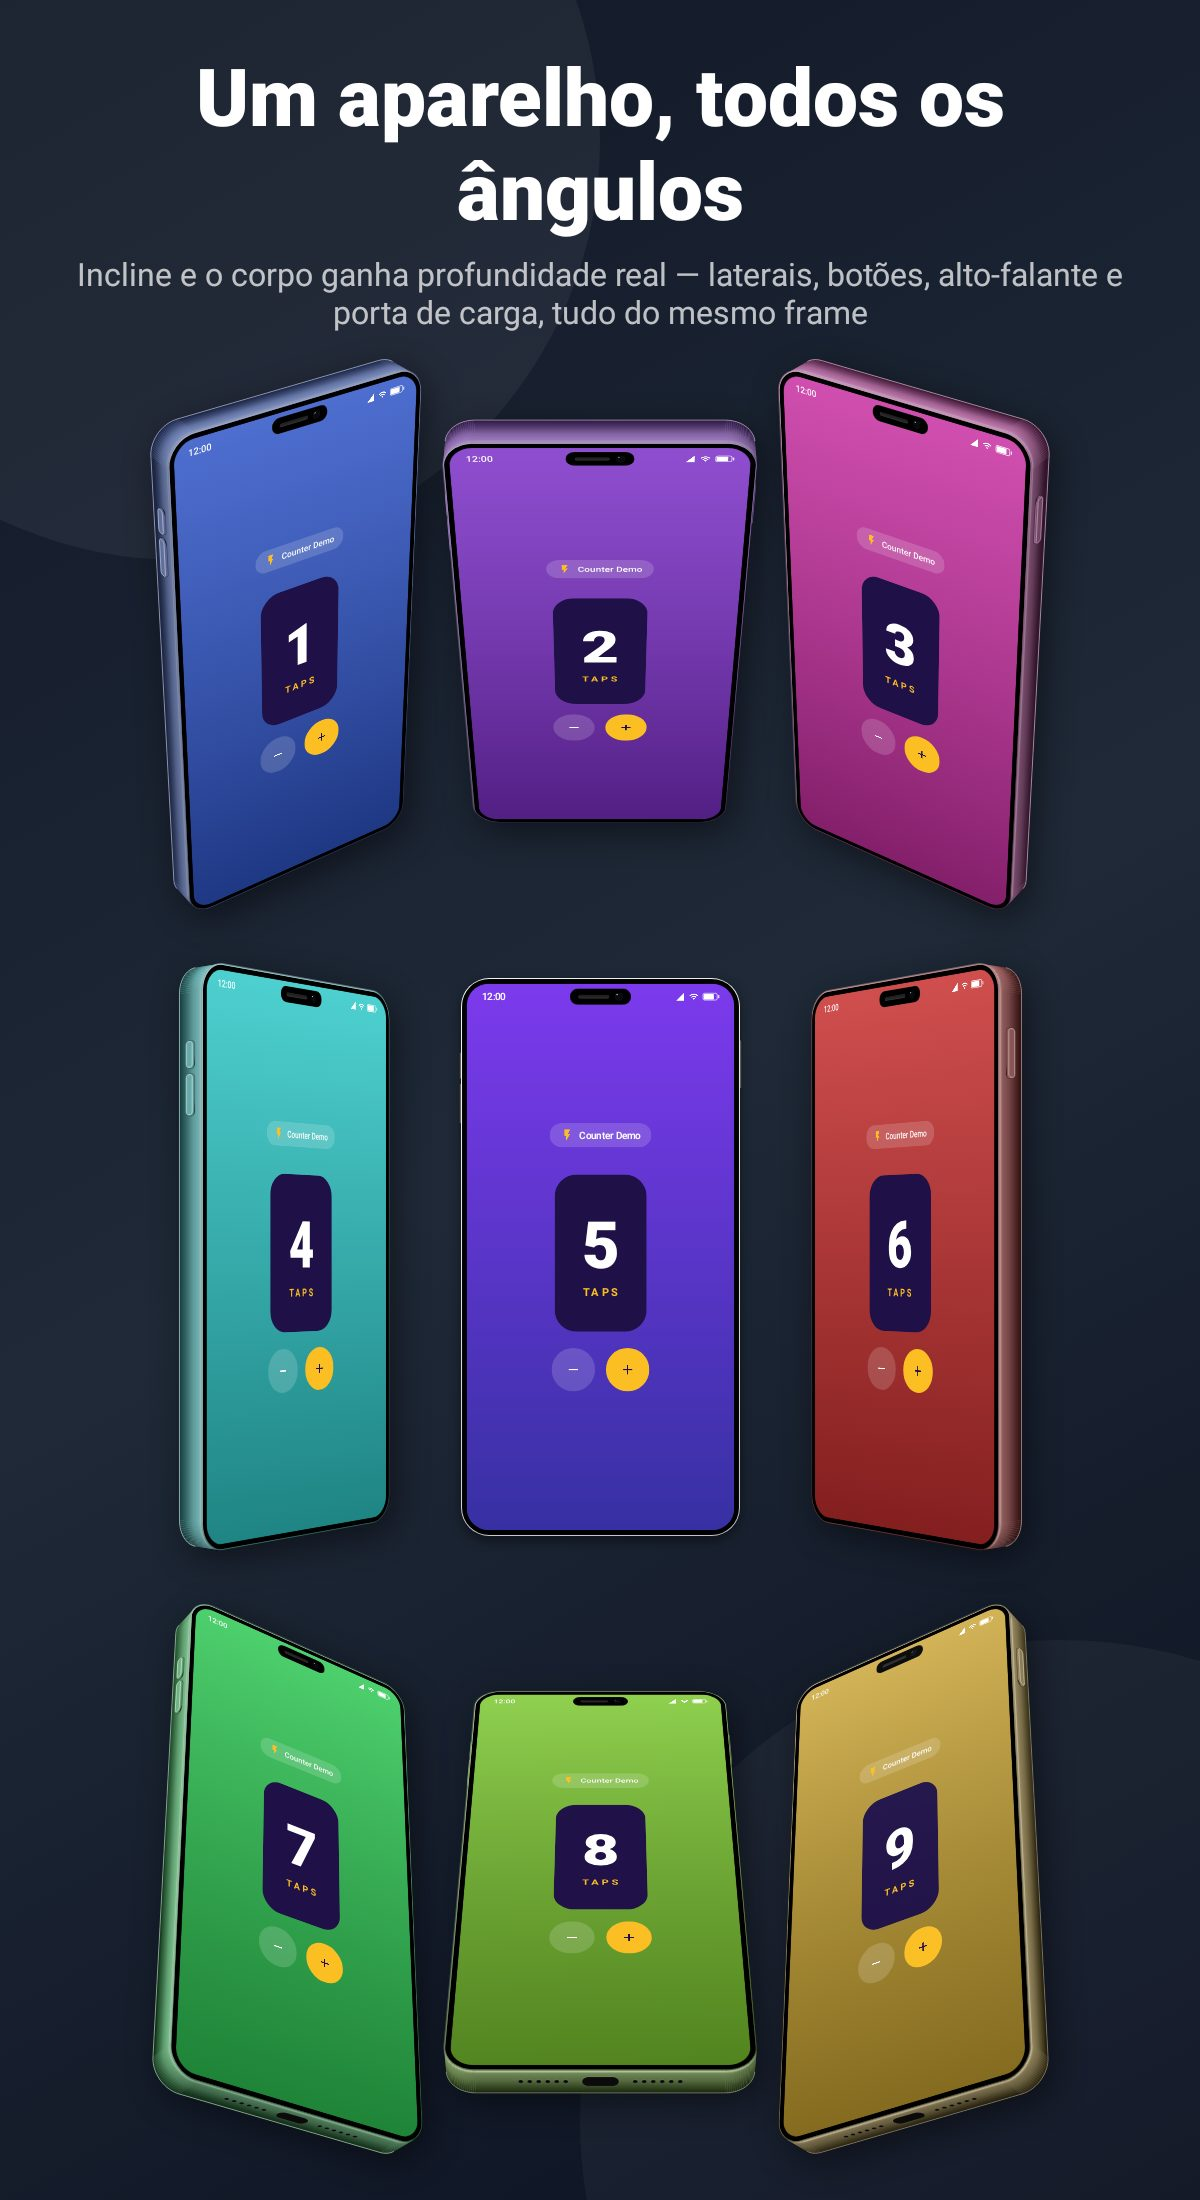
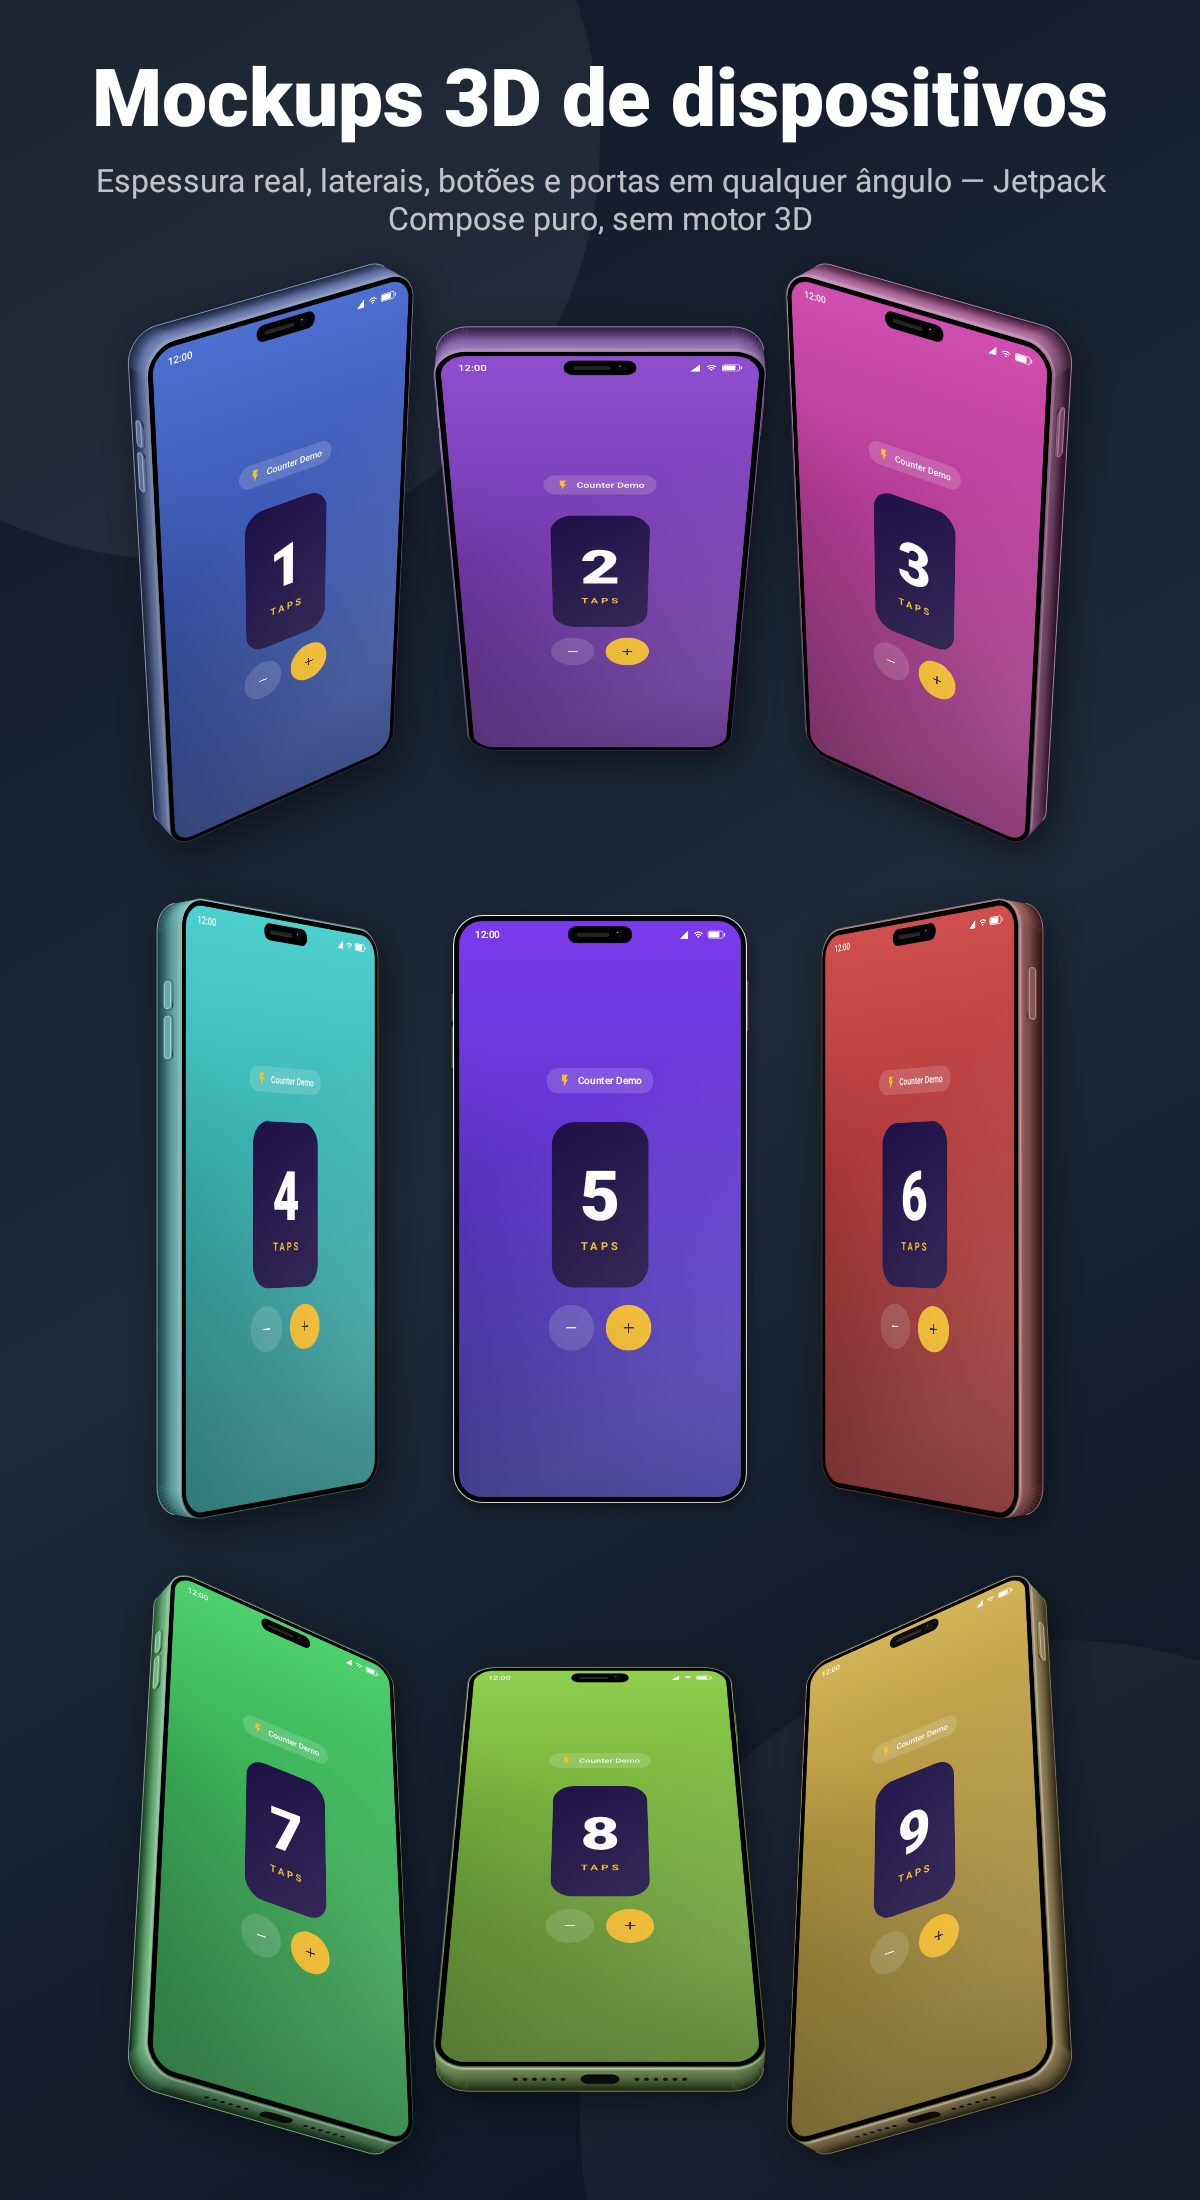
Name the showcase what it is, and put a reflection on its glass
The headline said "One device, every angle", which describes the grid rather
than the feature the grid exists to show. It is now "3D Device Mockups", and
the description says pure Jetpack Compose — the constraint is most of what
makes the thing interesting, and leaving it to the README meant the one
image likely to be seen on its own never mentioned it.

The nine screens now catch a reflection. One effect shared by all of them at
a fixed angle, because they should read as nine devices in the same room
rather than nine each lit by their own sun. It is drawn inside the content,
so it is warped onto the front face along with the screen and leans with
each device — which is the reason it is worth having here rather than being
painted flat over the banner afterwards. It is ScreenshotStyle.screenGlass's
reflex, a separate layer from the renderer's own glassSheen, and both are in
play.

Changed region(s): [[0.0617, 0.0309, 0.925, 0.9891], [0.37, 0.4018, 0.6475, 0.7109]]

diff --git a/example/src/main/kotlin/dev/lucianosantos/storescreenshots/example/SolidShowcaseBanner.kt b/example/src/main/kotlin/dev/lucianosantos/storescreenshots/example/SolidShowcaseBanner.kt
@@ -27,7 +27,12 @@ import androidx.compose.ui.unit.sp
 import kotlin.math.atan2
 import dev.lucianosantos.storescreenshots.DeviceMockup
 import dev.lucianosantos.storescreenshots.FormFactor
+import dev.lucianosantos.storescreenshots.GlassEffect
+import dev.lucianosantos.storescreenshots.GlassReflexStyle
+import dev.lucianosantos.storescreenshots.GlassShadow
+import dev.lucianosantos.storescreenshots.screenGlass
 import dev.lucianosantos.storescreenshots.MockupMaterial
+import dev.lucianosantos.storescreenshots.ScreenshotStyle
 
 /** One device in the grid: how far it is turned, what it is made of, and what is on it. */
 @Immutable
@@ -40,6 +45,28 @@ private class ShowcaseDevice(
     /** `null` keeps [CounterScreen]'s own page background — the app as it really looks. */
     val screen: Brush?,
     val count: Int,
+)
+
+/**
+ * The light every screen in the grid catches.
+ *
+ * One effect shared by all nine, at a fixed angle, because they are meant to read as nine devices
+ * in the same room rather than nine devices each lit by their own sun. It is drawn *inside* the
+ * content, so it is warped onto the front face along with the screen and leans with each device
+ * instead of lying flat across the banner — which is the whole reason a reflection is worth having
+ * here rather than being painted over the top afterwards.
+ *
+ * This is [ScreenshotStyle.screenGlass]'s reflex, not the renderer's own
+ * [MockupMaterial.glassSheen]; the two are separate layers and both are in play.
+ */
+private val ShowcaseGlass = GlassEffect(
+    reflexStyle = GlassReflexStyle.Wedge,
+    reflexAngle = -32f,
+    reflexPosition = 0.58f,
+    reflexWidth = 0.46f,
+    reflexAlpha = 0.16f,
+    shadow = GlassShadow.BottomLeft,
+    shadowAlpha = 0.20f,
 )
 
 /** How far the grid reaches either side of its centre: three rows and three columns. */
@@ -204,10 +231,15 @@ fun SolidShowcaseBanner(title: String, description: String? = null) {
                                     backEdgeColor = device.back,
                                 ),
                             ) {
+                                val glass = Modifier.screenGlass(ShowcaseGlass)
                                 if (device.screen == null) {
-                                    CounterScreen(count = device.count)
+                                    CounterScreen(count = device.count, modifier = glass)
                                 } else {
-                                    CounterScreen(count = device.count, background = device.screen)
+                                    CounterScreen(
+                                        count = device.count,
+                                        modifier = glass,
+                                        background = device.screen,
+                                    )
                                 }
                             }
                         }

diff --git a/README.md b/README.md
@@ -556,7 +556,8 @@ Wear screenshots have no title/description banner, so `mockupPosition` doesn't a
 *One phone frame, nine times. Each device is turned toward the side of the grid it sits on, so the
 top row shows its top rail, the left column its left, and the corners the two that meet there. Every
 screen is a different live composition, coloured to match the body it is on, because the front face
-is real Compose being measured and warped rather than a picture being stretched. The one in the
+is real Compose being measured and warped rather than a picture being stretched — which is also why
+the glass reflection leans with each device instead of lying flat across the banner. The one in the
 middle is not tilted at all: it never enters the solid renderer, and it is the only one of the nine
 with no rail to show.*
 
